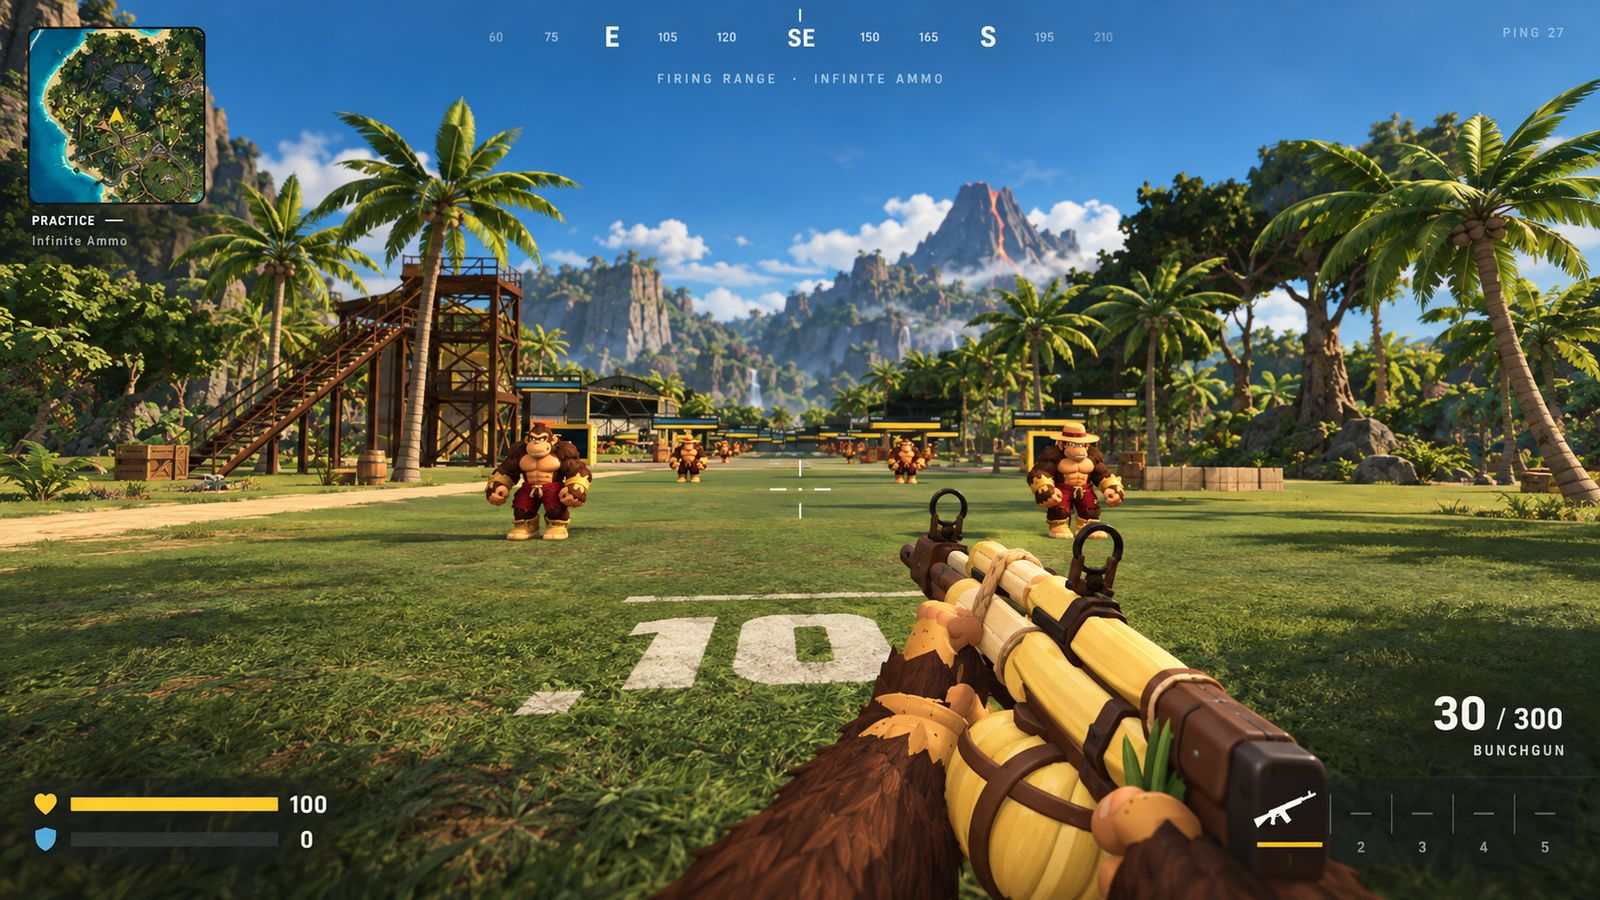
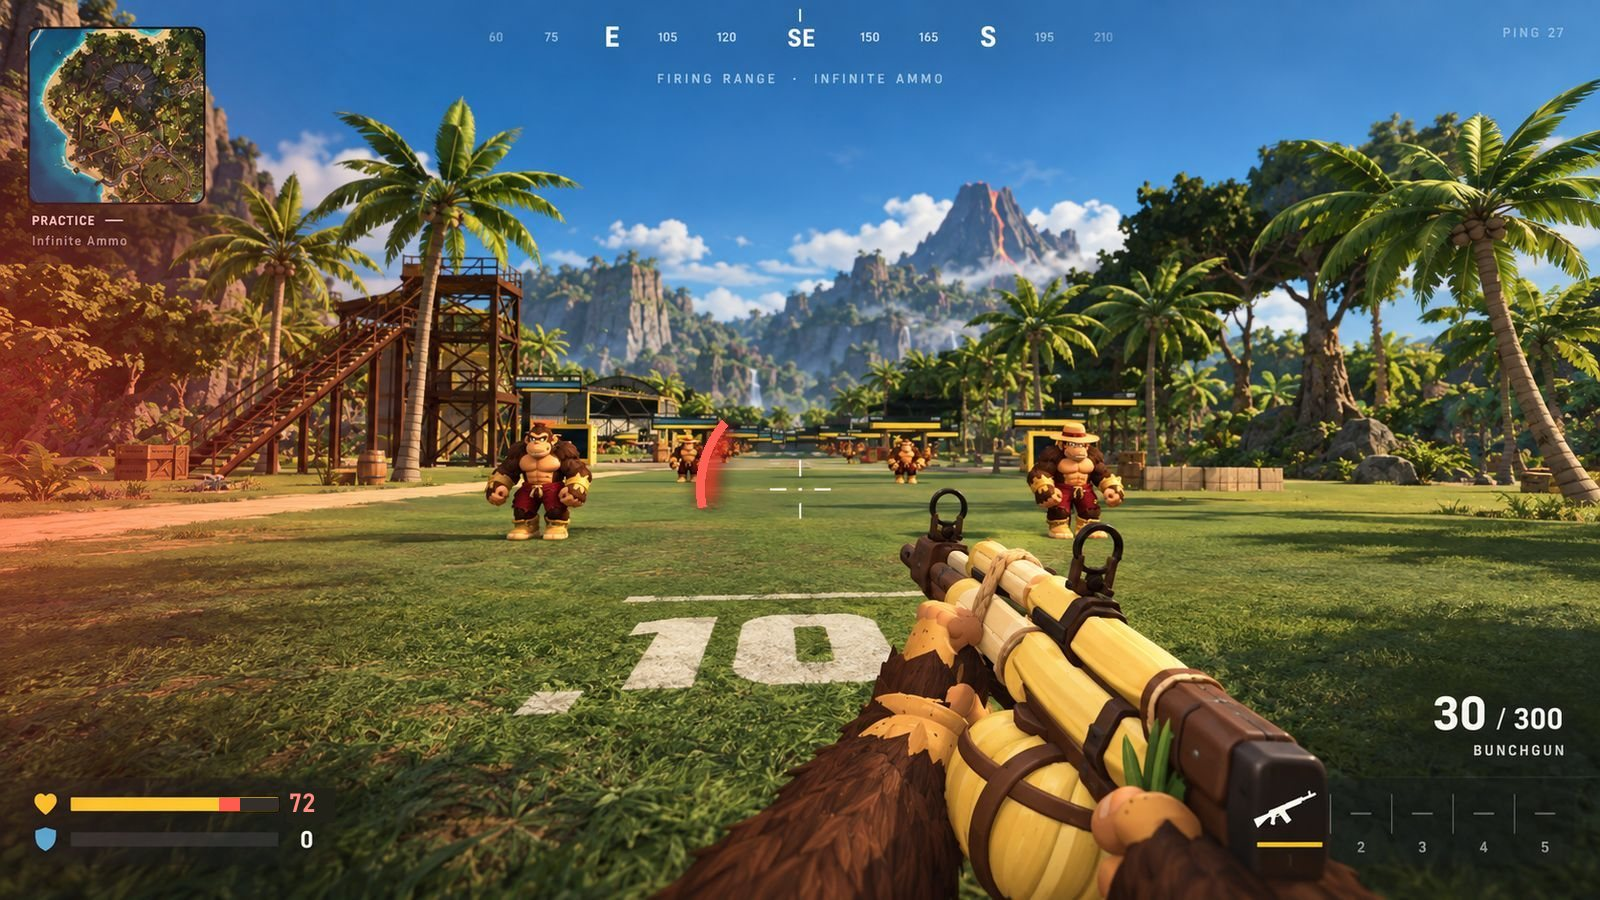
Add Opus 5.5 feedback page, damage indicator concept and range hint
- New "Opus 5.5 feedback" page (top nav, and a card on the home page):
  how the recording was reviewed, verdict, what works, biggest risks,
  every finding Opus raised with its frame, fix order and a plan for the
  next playtest.
- Gameplay HUD concept image now shows the suggested damage indicator:
  red arc around the crosshair, edge glow toward the shooter and the hit
  on the health bar.
- Firing range HUD prompts "K  Take a hit to see damage feedback".

Changed region(s): [[0.0, 0.0311, 0.2188, 0.8711], [0.4062, 0.4667, 0.4688, 0.56], [0.125, 0.8711, 0.2188, 0.9022]]

diff --git a/js/site.js b/js/site.js
@@ -125,13 +125,14 @@
     closePlayer();
     let page = "home", anchor = null;
     if (h === "design-system" || h.startsWith("ds-")) { page = "ds"; anchor = h.startsWith("ds-") ? h : null; }
+    else if (h === "opus-feedback" || h.startsWith("op-")) { page = "op"; anchor = h.startsWith("op-") ? h : null; }
     else if (h.startsWith("playtest") || h.startsWith("screen-") || h.startsWith("pt-") || h.startsWith("gp-")) { page = "pt"; anchor = h.startsWith("playtest") ? null : h; }
     if (view.dataset.page !== page) {
       view.dataset.page = page;
-      ({ home: renderHome, ds: renderDS, pt: renderPlaytest })[page]();
+      ({ home: renderHome, ds: renderDS, pt: renderPlaytest, op: renderOpus })[page]();
       if (!anchor) window.scrollTo(0, 0);
     }
-    setNav(page === "ds" ? "design-system" : page === "pt" ? "playtest" : "home");
+    setNav(page === "ds" ? "design-system" : page === "pt" ? "playtest" : page === "op" ? "opus" : "home");
     if (anchor) requestAnimationFrame(() => { const el = document.getElementById(anchor); if (el) el.scrollIntoView({ block: "start" }); });
   }
   function setNav(k) { $$(".topbar-nav a").forEach((a) => { if (a.dataset.nav === k) a.setAttribute("aria-current", "page"); else a.removeAttribute("aria-current"); }); }
@@ -166,6 +167,8 @@
           </div>
         </article>
       </section>
+
+      ${opusHomeCard()}
 
       <section class="section">
         <div class="section-head"><div class="eyebrow">Feedback sessions</div><h2 class="display">Sessions</h2></div>
@@ -486,6 +489,84 @@
       K.screens.forEach((s) => { const el = document.getElementById("notes-" + s.n); if (el && R[s.n]) el.innerHTML = notesHtml(R[s.n]); });
       const b = Object.keys(R).find((k) => k.startsWith("KONG /")); if (b) $("#brand-review").textContent = R[b].after + " " + R[b].suggestions;
     });
+  }
+  function opusHomeCard() {
+    const G = window.GAMEPLAY; if (!G || !G.opus) return "";
+    const O = G.opus, top = G.groups.flatMap((g) => g.items).filter((i) => i.pri === "High");
+    return `<section class="section" id="home-opus">
+        <div class="section-head"><div class="eyebrow">Playtester review</div><h2 class="display">Opus 5.5 feedback</h2>
+          <p>Opus 5.5 watched RET's October 10 match as a playtester and reviewed it frame by frame. Here is the short version; the full write-up has every finding with a frame from the video.</p></div>
+        <article class="op-card">
+          <blockquote class="op-quote">${esc(O.verdict)}<cite>Opus 5.5, playtester review of the Oct 10 recording</cite></blockquote>
+          <div class="op-side">
+            <div class="eyebrow plain">Fix first</div>
+            <ol class="op-top">${top.map((i) => `<li><b>${esc(i.title)}</b><span>${esc(i.time)}</span></li>`).join("")}</ol>
+            <div class="btnrow"><a class="btn primary" href="#opus-feedback">Read Opus 5.5's feedback <span class="arrow">→</span></a><a class="btn" href="#play-hud">Try the damage feedback</a></div>
+          </div>
+        </article>
+      </section>`;
+  }
+  function findingCard(it) {
+    return `<article class="gp-item">
+          ${it.img ? `<button class="gp-shot" data-lb="img/gameplay/${it.img}.jpg" data-cap="${esc(it.title)} · ${esc(it.time)}"><img src="img/gameplay/${it.img}.jpg" alt="Frame from the gameplay recording at ${esc(it.time)}" loading="lazy"><span>${esc(it.time)}</span></button>` : `<div class="gp-shot gp-noshot"><span>${esc(it.time)}</span></div>`}
+          <div class="gp-body">
+            <div class="gp-meta"><span class="pri pri-${it.pri.toLowerCase()}">${it.pri}</span><span class="who">${esc(it.who)}</span></div>
+            <h4>${esc(it.title)}</h4>
+            <p><b>What we saw.</b> ${esc(it.what)}</p>
+            <p><b>Suggestion.</b> ${esc(it.fix)}</p>
+            ${it.demo ? `<a class="btn small" href="#play-hud">Try it in the firing range: press K <span class="arrow">→</span></a>` : ""}
+          </div>
+        </article>`;
+  }
+  function renderOpus() {
+    const G = window.GAMEPLAY, O = G.opus;
+    const all = G.groups.flatMap((g) => g.items.map((i) => ({ ...i, group: g.title })));
+    const mine = all.filter((i) => i.who.includes("Opus"));
+    const grouped = G.groups.map((g) => ({ ...g, items: g.items.filter((i) => i.who.includes("Opus")) })).filter((g) => g.items.length);
+    view.innerHTML = `
+    <div class="wrap">
+      <section class="page-hero">
+        <div class="crumbs"><a href="#home">Sessions</a> / Opus 5.5 feedback</div>
+        <div class="eyebrow">Playtester review · Oct 10, 2026 match</div>
+        <h1 class="display">Opus 5.5<br>feedback</h1>
+        <p>Opus 5.5 acted as a playtester and reviewed RET's gameplay recording from the October 10 playtest. The menu and HUD redesign is covered on the session page, so this review is only about how the game plays: combat, time to kill, crosshairs, damage, collision and performance.</p>
+        <div class="btnrow"><a class="btn" href="${K.recording.url}" target="_blank" rel="noopener">▶ Watch the recording ↗</a>${dlBtn(K.downloads.gameplay, "All findings as Markdown")}</div>
+      </section>
+    </div>
+    <nav class="subnav" aria-label="Opus 5.5 feedback sections"><div class="wrap">
+      ${[["op-method", "How I reviewed"], ["op-verdict", "My verdict"], ["op-found", "What I found"], ["op-next", "What to do next"]].map(([id, t]) => `<a href="#${id}" data-sec="${id}">${t}</a>`).join("")}
+    </div></nav>
+    <div class="wrap">
+      <section class="section" id="op-method">
+        <div class="section-head"><div class="eyebrow">Method</div><h2 class="display">How I reviewed it</h2></div>
+        <div class="gp-summary">${O.method.map(([n, t]) => `<div><b>${n}</b><span>${esc(t)}</span></div>`).join("")}</div>
+        <p class="muted" style="font-size:14px;max-width:72ch;margin-top:14px">I could only judge what shows on screen. Hit boxes, weapon stats and server-side numbers were read off damage markers and the health and shield bars, so treat the exact figures as estimates to confirm in the game's data.</p>
+      </section>
+
+      <section class="section" id="op-verdict">
+        <div class="section-head"><div class="eyebrow">Overall</div><h2 class="display">My verdict</h2></div>
+        <blockquote class="op-quote big">${esc(O.verdict)}</blockquote>
+        <div class="twocol" style="margin-top:32px">
+          <div><h3 class="gp-gh">What works</h3><ul class="op-list good">${O.strengths.map((t) => `<li>${esc(t)}</li>`).join("")}</ul></div>
+          <div><h3 class="gp-gh">Biggest risks</h3><ul class="op-list risk">${O.risks.map((t) => `<li>${esc(t)}</li>`).join("")}</ul></div>
+        </div>
+      </section>
+
+      <section class="section" id="op-found">
+        <div class="section-head"><div class="eyebrow">${mine.length} findings with frames from the video</div><h2 class="display">What I found</h2>
+          <p>Findings I raised myself, plus the ones Ret and I raised together. Ret's own calls (flinch and damage direction) are on the <a href="#pt-gameplay">session page</a> with everything else.</p></div>
+        ${grouped.map((g) => `<div class="gp-group"><h3 class="gp-gh">${esc(g.title)}</h3>${g.items.map(findingCard).join("")}</div>`).join("")}
+      </section>
+
+      <section class="section" id="op-next">
+        <div class="section-head"><div class="eyebrow">Recommendations</div><h2 class="display">What to do next</h2></div>
+        <ol class="op-order">${O.order.map(([t, d], i) => `<li><span class="n">${i + 1}</span><div><b>${esc(t)}</b><p>${esc(d)}</p></div></li>`).join("")}</ol>
+        <h3 class="gp-gh" style="margin-top:40px">For the next playtest</h3>
+        <ul class="op-list">${O.next.map((t) => `<li>${esc(t)}</li>`).join("")}</ul>
+      </section>
+    </div>
+    <div class="lightbox" id="lightbox" hidden role="dialog" aria-modal="true" aria-label="Image viewer"><div class="lb-bar"><span id="lb-cap"></span><button class="btn small" id="lb-close">Close · Esc</button></div><img id="lb-img" alt=""></div>`;
+    subnavSpy();
   }
   function gameplaySection() {
     const G = window.GAMEPLAY; if (!G) return "";

diff --git a/css/site.css b/css/site.css
@@ -327,6 +327,28 @@ details.spec > summary { cursor: pointer; padding: 18px 0; font-weight: 600; }
 .screen-index a { font-family: var(--f-label); font-weight: 600; font-size: 12px; letter-spacing: .1em; text-transform: uppercase; text-decoration: none; color: var(--muted); padding: 6px 10px; border: 1px solid var(--rule); }
 .screen-index a:hover { color: var(--text); border-color: var(--rule-strong); }
 
+.op-card { display: grid; grid-template-columns: minmax(0, 1.2fr) minmax(0, 1fr); border: 1px solid var(--rule); background: var(--bg-2); }
+.op-quote { margin: 0; padding: 32px; font-size: 19px; line-height: 1.6; color: var(--text); border-left: 3px solid var(--accent); }
+.op-card .op-quote { border-left: 0; border-right: 1px solid var(--rule); }
+.op-quote cite { display: block; margin-top: 16px; font-style: normal; font-family: var(--f-label); font-weight: 600; font-size: 12px; letter-spacing: .14em; text-transform: uppercase; color: var(--muted); }
+.op-quote.big { padding: 8px 0 8px 28px; font-size: 22px; max-width: 70ch; }
+.op-side { padding: 28px 32px; display: grid; gap: 16px; align-content: start; }
+.op-top { margin: 0; padding: 0; list-style: none; counter-reset: t; display: grid; }
+.op-top li { counter-increment: t; display: grid; grid-template-columns: 28px 1fr; gap: 2px 10px; padding: 10px 0; border-bottom: 1px solid var(--rule); }
+.op-top li::before { content: counter(t); grid-row: 1 / span 2; font-family: var(--f-display); color: var(--accent); font-size: 22px; line-height: 1.1; }
+.op-top li b { font-weight: 600; }
+.op-top li span { font-family: var(--f-mono); font-size: 12px; color: var(--muted); }
+.op-list { margin: 0; padding: 0; list-style: none; }
+.op-list li { padding: 12px 0 12px 22px; border-bottom: 1px solid var(--rule); position: relative; color: #d6d2c7; }
+.op-list li::before { content: "•"; position: absolute; left: 4px; color: var(--muted); }
+.op-list.good li::before { content: "✓"; color: var(--success); }
+.op-list.risk li::before { content: "!"; color: var(--danger); font-weight: 700; }
+.op-order { margin: 0; padding: 0; list-style: none; display: grid; }
+.op-order li { display: grid; grid-template-columns: 60px minmax(0, 1fr); gap: 16px; padding: 18px 0; border-bottom: 1px solid var(--rule); }
+.op-order .n { font-family: var(--f-display); font-size: 40px; line-height: 1; color: var(--accent); }
+.op-order b { font-size: 19px; font-weight: 600; }
+.op-order p { margin: 6px 0 0; color: #d6d2c7; max-width: 72ch; }
+@media (max-width: 820px) { .op-card { grid-template-columns: 1fr; } .op-card .op-quote { border-right: 0; border-bottom: 1px solid var(--rule); } }
 .gp-summary { display: flex; flex-wrap: wrap; gap: 12px 40px; align-items: end; padding: 18px 0; border-block: 1px solid var(--rule); }
 .gp-summary div { display: grid; gap: 2px; }
 .gp-summary b { font-family: var(--f-display); font-size: 44px; line-height: 1; font-weight: 400; }

diff --git a/js/gameplay.js b/js/gameplay.js
@@ -122,3 +122,40 @@ window.GAMEPLAY = {
     }
   ]
 };
+
+/* Opus 5.5's own write-up: how the review was done, the verdict, and what to do next. */
+window.GAMEPLAY.opus = {
+  method: [
+    ["189", "frames sampled, one every 4 seconds across the 12:36 recording"],
+    ["3", "fights stepped through at 2 frames a second (1:36, 7:16, 10:48)"],
+    ["16", "findings, each tied to a timestamp and a frame"],
+    ["13", "findings raised by Opus 5.5; 3 by Ret, one of them jointly"]
+  ],
+  verdict: "Kong Royale already has the hard parts of a battle royale working: a readable island, fast rotations, clear storm pacing and kills that feel rewarding. What holds it back is how fights resolve. Players die before they can tell where they are being shot from, and nothing slows the player who is losing a fight. Fixing time to kill, flinch and damage direction together will change the game more than any other single pass.",
+  strengths: [
+    "The island reads well from the plane, and Banana Temple, The Plantation and Lookout Point each feel distinct.",
+    "Kill banners, damage numbers and medals (Wrecked, Double kill) are clear and satisfying.",
+    "Storm phase banners and the Resurgence off notice are easy to follow.",
+    "The tuk-tuk makes rotating with a squad fun and fast.",
+    "The final circle at Lookout Point was tense and well paced."
+  ],
+  risks: [
+    "Time to kill around one second makes fights feel random to newer players.",
+    "No damage direction or flinch means the player being shot has no way to react.",
+    "Foliage and fruit bags at The Plantation give one-sided concealment.",
+    "A locked 30 FPS makes aiming feel heavy, which amplifies the time-to-kill problem."
+  ],
+  order: [
+    ["Damage feedback", "Add the directional arc, edge glow and flinch. They are cheap and make every other combat change easier to judge. A working demo is in the firing range (press K)."],
+    ["Time to kill", "Cut body damage 20–30% and add range falloff, then replay the same squads and compare."],
+    ["Frame rate", "Find what holds the game at 30 FPS and aim for 60 before tuning aim feel."],
+    ["Collision pass", "Plantation plants and bags, the rock cliffs near Banana Split, boulders and the tuk-tuk camera."],
+    ["Readability", "Crosshair outline, sight pictures, temple lighting and the helicopter material."]
+  ],
+  next: [
+    "Record two matches before and two after the damage change, with the same squads.",
+    "Track average time to kill, kills per match and how often the player who shot first wins the fight.",
+    "Ask each player the same three questions: did you know where shots came from, did fights feel fair, and did you ever lose sight of the action.",
+    "Add the in-game ratings from the new results screen so smoothness, hit registration and fun are logged per match."
+  ]
+};

diff --git a/js/game.js b/js/game.js
@@ -266,7 +266,7 @@ window.Game = (function () {
   function enterHud(mode, silent) {
     S.base = "hud"; S.mode = mode; S.matchT0 = Date.now(); S.over = [];
     S.match = { kills: 0, assists: 0, dmg: 0, squadKills: 0, alive: 50, squads: 17, lastHit: 0, tHp: {} };
-    S.hints = { fire: false, reload: false, inv: false, map: false };
+    S.hints = { fire: false, reload: false, inv: false, map: false, hurt: false };
     if (!silent) renderAll();
   }
 
@@ -555,13 +555,14 @@ window.Game = (function () {
   }
   function renderHints() {
     if (!hudEls) return;
-    const H = S.hints, all = H.fire && H.reload && H.inv && H.map;
+    const H = S.hints, all = H.fire && H.reload && H.inv && H.map && H.hurt;
     const row = (done, keys, t) => `<div class="k-hint ${done ? "done" : ""}">${keys} ${t}</div>`;
     hudEls.hints.innerHTML = S.mode !== "range" ? "" :
       row(H.fire, `<span class="k-key">${I.mouse("left")}</span>`, "Fire at a target") +
       row(H.reload, keycap(S.bind.reload), "Reload") +
       row(H.inv, keycap(S.bind.inventory), "Open inventory") +
-      row(H.map, keycap(S.bind.map), "Open map");
+      row(H.map, keycap(S.bind.map), "Open map") +
+      `<div class="k-hint hint-new ${H.hurt ? "done" : ""}">${lit("K")} Take a hit to see damage feedback</div>`;
     hudEls.hints.style.opacity = all ? 0 : 1;
   }
   function startLoop() {
@@ -645,6 +646,7 @@ window.Game = (function () {
     sfx.hurt();
     if (angle == null) angle = [-150, -90, -30, 30, 90, 150, 180][(Math.random() * 7) | 0];
     showDamageDir(angle, left > 0 ? "health" : "shield", n);
+    if (!S.hints.hurt) { S.hints.hurt = true; renderHints(); }
     const f = Math.min(1, n / 30) * (S.aiming ? 0.5 : 1);
     S.look.tx = clamp(S.look.tx + (Math.random() - 0.5) * 0.09 * f, -1, 1);
     S.look.ty = clamp(S.look.ty - 0.07 * f, -0.6, 0.6);

diff --git a/css/game.css b/css/game.css
@@ -666,3 +666,6 @@
 .dmg-arc::before { content: ""; position: absolute; left: 50%; top: 0; width: 120px; height: 120px; margin-left: -60px; border-radius: 50%; border-top: 9px solid #FF5A4E; filter: drop-shadow(0 0 6px rgba(255,60,50,.8)); }
 .dmg-arc.shield::before { border-top-color: var(--kong-shield); filter: drop-shadow(0 0 6px rgba(88,188,235,.8)); }
 @keyframes dmg-fade { 0% { opacity: 1; } 60% { opacity: .85; } 100% { opacity: 0; } }
+.hud-hints .hint-new { color: var(--kong-accent); }
+.hud-hints .hint-new .k-key { border-color: var(--kong-accent); color: var(--kong-accent); }
+.hud-hints .hint-new.done { color: var(--kong-text); }

diff --git a/index.html b/index.html
@@ -19,6 +19,7 @@
       <a href="#home" data-nav="home">Sessions</a>
       <a href="#design-system" data-nav="design-system">Design system</a>
       <a href="#playtest-2026-10-10" data-nav="playtest">Playtest · Oct 10</a>
+      <a href="#opus-feedback" data-nav="opus">Opus 5.5 feedback</a>
     </nav>
   </header>
 
